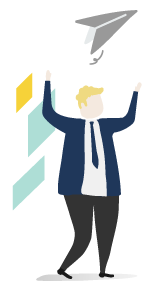
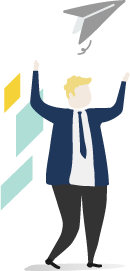
all Images add

Changed region(s): [[0.0, 0.2066, 1.0, 1.0], [0.4615, 0.0, 0.9846, 0.2362]]

diff --git a/css/style.css b/css/style.css
@@ -6,7 +6,6 @@
 	font-family: 'Franklin Gothic Book';
 	src: url(../font/Franklin\ Gothic\ Book.ttf);
 }
-
 body {
 	background-color: #4d4bac;
 	font-family: 'Franklin Gothic Book';
@@ -18,25 +17,27 @@ section {
 }
 /*Formatando o header*/
 .header {
-	margin-top: 106px;
+	margin-top: 80px;
 	padding-left: 50%;
 	position: relative;
 	margin-bottom: 350px;
+	margin-right: 70px;
 }
 .header::before {
 	content: '';
 	display: block;
-	width: 670px;
-	height: 600px;
+	width: 750px;
+	height: 800px;
 	position: absolute;
-	background-image: url(../images/ilustration-man.png);
+	background-image: url(../images/ilustration-1.png);
 	background-position: center center;
 	background-size: cover;
-	left: -100px;
+	left: -50px;
 }
 
 .menu {
-	margin-bottom: 150px;
+	margin-bottom: 100px;
+
 }
 
 .menu__list {
@@ -64,16 +65,22 @@ section {
 
 
 .header__title {
-	font-size: 60px;
+	font-size: 55px;
 	margin-bottom: 95px;
 	padding-left: 100px;
 	padding-right: 160px;
+	letter-spacing: 10px;
 }
 
 .header__title-yellow{
 	color: #ffc21a;
-	font-size: 66px;
 	display: block;
+	letter-spacing: 6px;
+}
+
+.header__title-comfortably {
+	font-size: 50px;
+	letter-spacing: 6px;
 }
 
 .header__text {
@@ -104,7 +111,38 @@ section {
 }
 
 .list-process__item{
-	display: inline;
+	display: inline-block;
+	position: relative;
+	padding-top: 200px; 
+}
+
+.list-process__item::before {
+	content: '';
+	display: block;
+	position: absolute;
+	top: 0;
+	width: 200px;
+	height: 230px;
+	left: 50%;
+	transform: translateX(-50%);
+	background-size: contain;
+	background-repeat: no-repeat;
+}
+
+.list-process__item:nth-child(1)::before {
+	background-image: url('../images/list-1.png');
+}
+
+.list-process__item:nth-child(2)::before {
+	background-image: url('../images/list-2.png');
+}
+
+.list-process__item:nth-child(3)::before {
+	background-image: url('../images/list-3.png');
+}
+
+.list-process__item:nth-child(4)::before {
+	background-image: url('../images/list-4.png');
 }
 
 .list-process__title {
@@ -115,6 +153,23 @@ section {
 /* Formatando a section about us */
 .about-us {
 	margin-bottom: 150px;
+}
+
+.section__title-color {
+	color: #a9eadd;
+}
+
+.section__title-color::after {
+	content: '';
+	display: block;
+	position: relative;
+	width: 200px;
+	height: 20px;
+	left: 16%;
+	transform: translateX(-50%);
+	background-size: contain;
+	background-repeat: no-repeat;
+	background-image: url(../images/bar.png);
 }
 
 /* Formatando a section our goals */

diff --git a/index.html b/index.html
@@ -30,30 +30,27 @@
 			Start Your <span class="header__title-yellow">Work’s with</span> <span class="header__title-comfortably"> Comfortably </span>
 		</h1>
 		<p class="header__text">
-			Lorem ipsum dolor sit amet, consectetur adipiscing elit, sed do eiusmod tempor incididunt ut labore et dolore magna aliqua. Ut enim ad minim veniam, quis nostrud exercitation ullamco laboris nisi ut aliquip ex ea commodo consequat. Duis aute irure dolor in reprehenderit in voluptate velit esse cillum dolore eu fugiat nulla pariatur.
-		</p>
+			Lorem Ipsum is that it has a more-or-less normal distribution of letters, as opposed to using
+			'Content here, content here', making it look like readable English. Many desktop publishing
+			packages and web page editors.		</p>
 		<a href="#" class="header__link btn-default">Discover</a>
 	</header>
 	<section class="how-started">
 		<h2 class="section__title">How that’s get started?</h2>
 		<ul class="list-process">
 			<li class="list-process__item">
-				<img src="./images/list-1.png" class="list-process__item-img01">
 				<h3 class="list-process__title">Create your account</h3>
 				<p class="list-process__text">Eu elit nisi aliquip reprehenderit est ex esse sint amet velit amet tempor cupidatat occaecat.</p>
 			</li>
 			<li class="list-process__item">
-				<img src="./images/list-2.png" class="list-process__item-img02">
 				<h3 class="list-process__title">Plan your journeys</h3>
 				<p class="list-process__text">Duis labore ea officia anim voluptate quis commodo incididunt ea occaecat.</p>
 			</li>
 			<li class="list-process__item">
-				<img src="./images/list-3.png" class="list-process__item-img03">
 				<h3 class="list-process__title">Meet your drivers</h3>
 				<p class="list-process__text">Exercitation quis ea ex cupidatat aliqua ex cupidatat magna.</p>
 			</li>
 			<li class="list-process__item">
-				<img src="./images/list-4.png" class="list-process__item-img04">
 				<h3 class="list-process__title">Enjoy your journey</h3>
 				<p class="list-process__text">Minim consectetur culpa veniam anim consectetur consequat excepteur do deserunt occaecat enim laborum et quis.</p>
 			</li>
